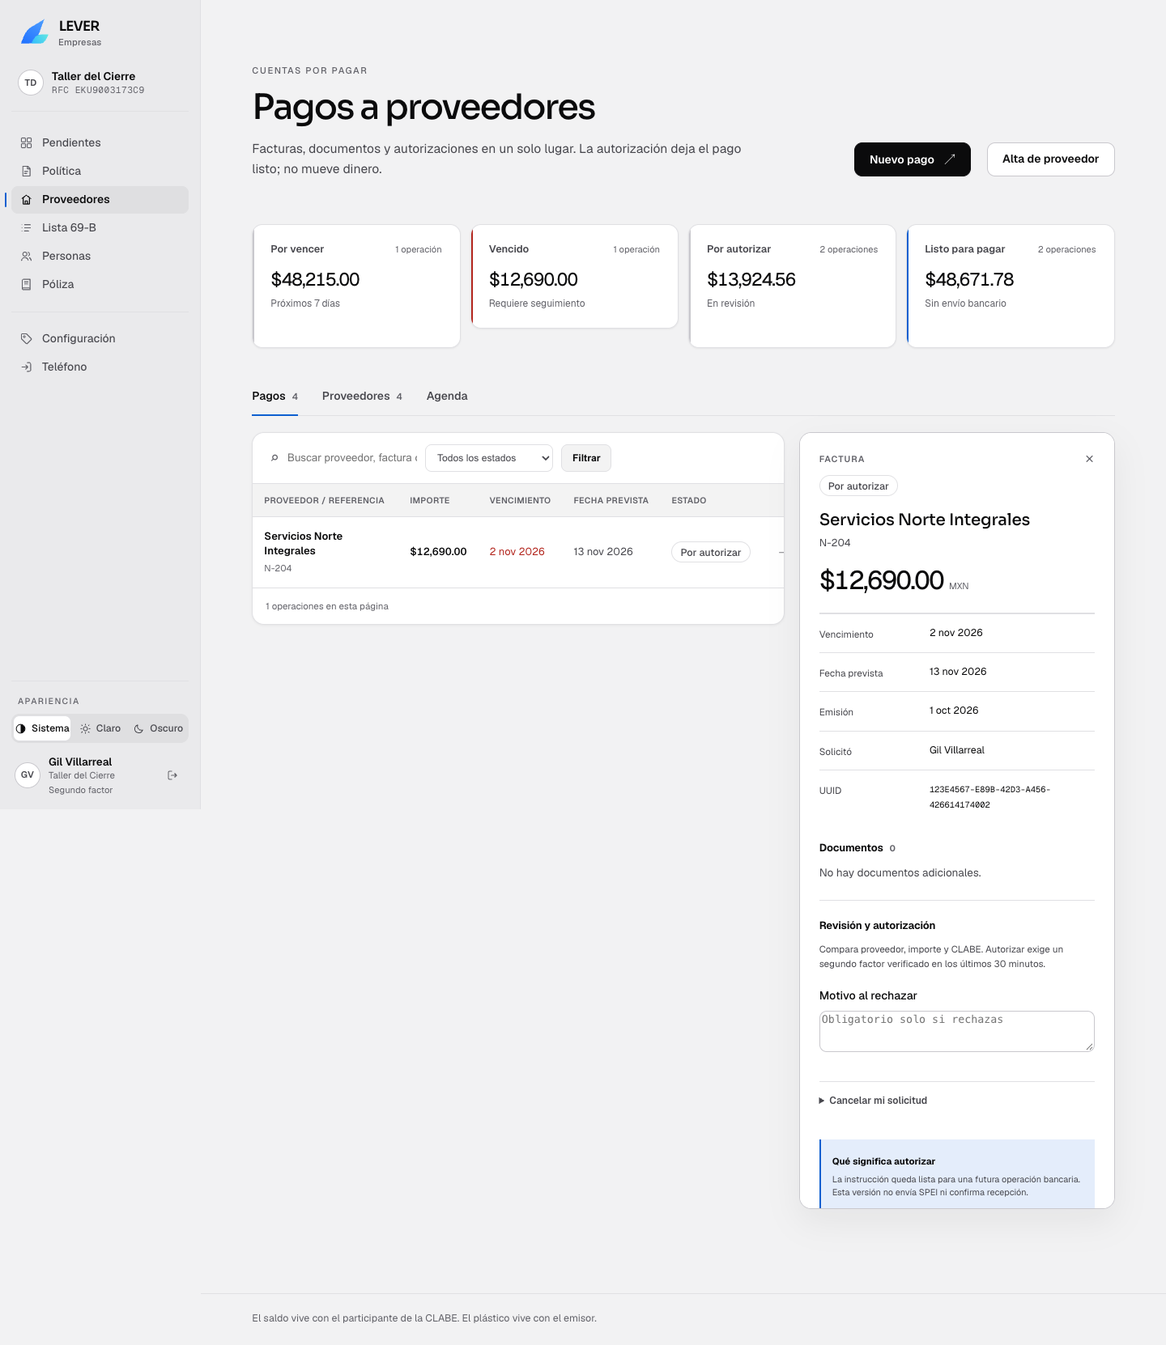
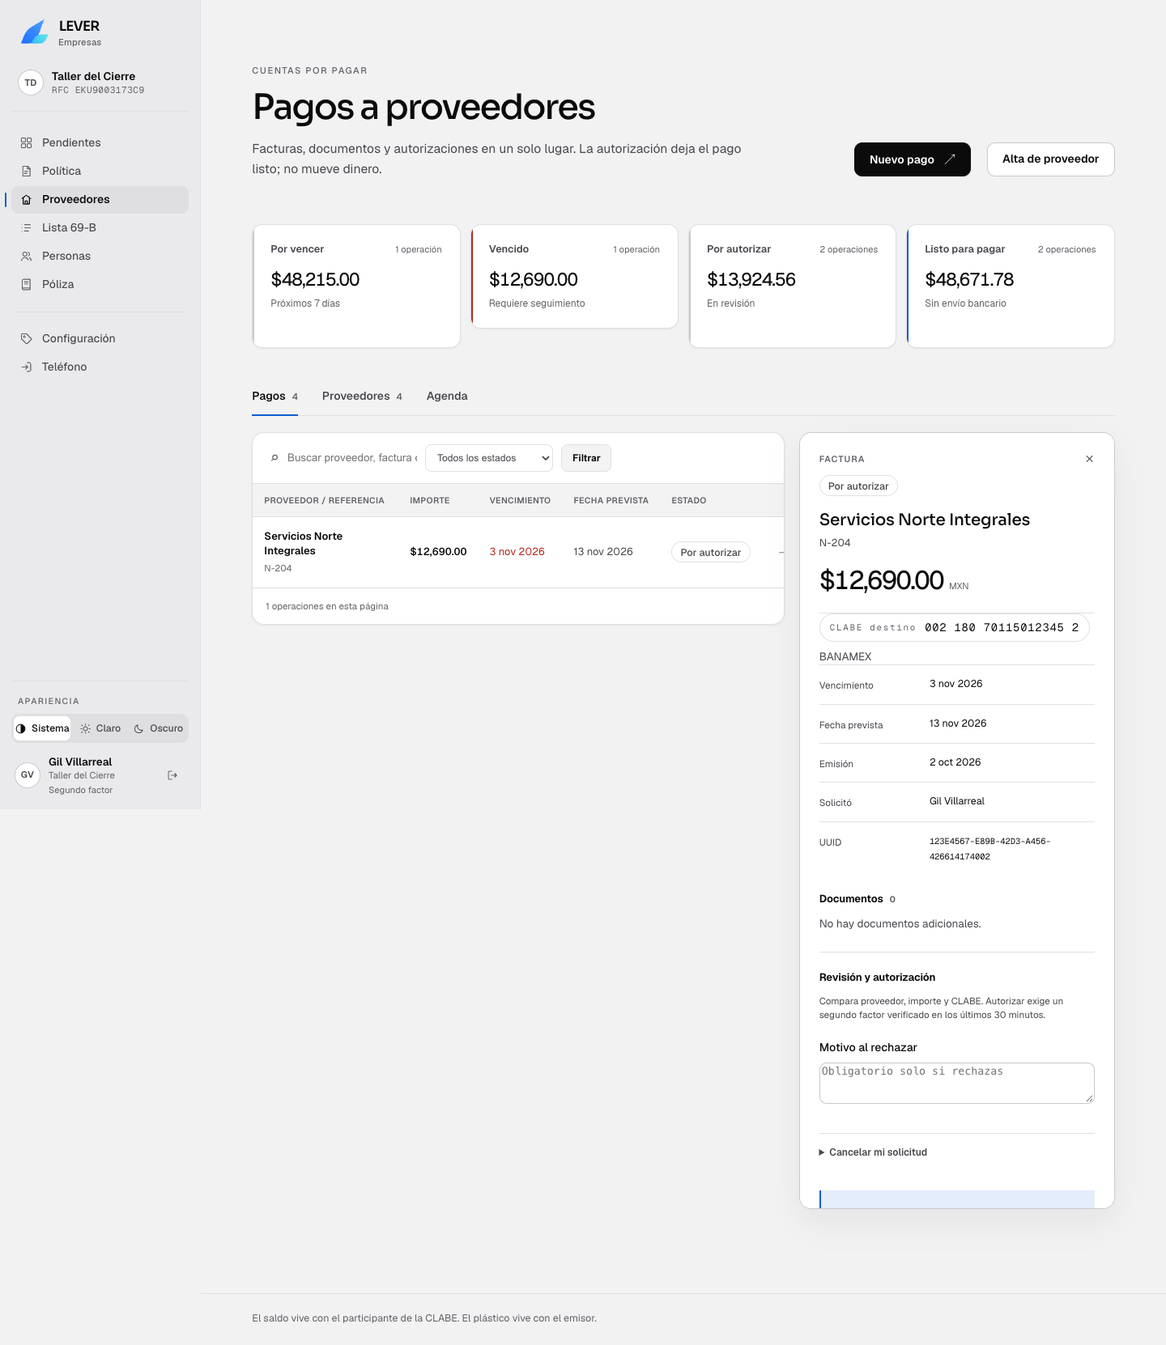
fix: blinda autorizacion y reintentos de pagos

Changed region(s): [[0.6875, 0.6137, 0.9375, 0.8899], [0.7812, 0.4603, 0.9062, 0.6444], [0.6875, 0.4603, 0.75, 0.583]]

diff --git a/tests/proveedores/pagos-proveedores.test.ts b/tests/proveedores/pagos-proveedores.test.ts
@@ -49,6 +49,7 @@ test("cuentas por pagar: dos personas, duplicados, corrección y CLABE cambiada"
     const sesion = { superficie: "cliente" as const, segundoFactor: { metodo: "totp" as const, en: new Date(AHORA) } };
     try {
       const entradaCfdi = {
+        clientRequestId: "aaaaaaaa-aaaa-4aaa-8aaa-aaaaaaaaaaa1",
         supplierId: PROVEEDOR, origen: "cfdi", xml: { nombre: "factura.xml", bytes: cfdiDePrueba() },
         pdf: { nombre: "factura.pdf", bytes: PDF }, venceEl: "2026-11-30", programadaEl: "2026-11-06",
       };
@@ -61,17 +62,28 @@ test("cuentas por pagar: dos personas, duplicados, corrección y CLABE cambiada"
       assert.equal(estado(url, creado.requestId), "listo_para_pagar");
 
       await assert.rejects(
-        () => crearPagoProveedor(luis, entradaCfdi, deps),
+        () => crearPagoProveedor(luis, { ...entradaCfdi, clientRequestId: "aaaaaaaa-aaaa-4aaa-8aaa-aaaaaaaaaaa2" }, deps),
         (error: unknown) => error instanceof ErrorDeDominio && error.codigo === "cfdi_duplicado",
       );
       assert.equal(borrados.length, 0, "el duplicado se detecta antes de subir archivos y no deja huérfanos");
 
-      const excepcion = await crearPagoProveedor(luis, {
+      const entradaExcepcion = {
+        clientRequestId: "aaaaaaaa-aaaa-4aaa-8aaa-aaaaaaaaaaa3",
         supplierId: PROVEEDOR, origen: "excepcion", pdf: { nombre: "soporte.pdf", bytes: PDF },
         monto: "1,250.50", referencia: "Servicio extraordinario", emitidaEl: "2026-11-01",
         venceEl: "2026-11-30", programadaEl: "2026-11-07", motivoExcepcion: "Trabajo urgente autorizado por dirección",
-      }, deps);
+      };
+      const excepcion = await crearPagoProveedor(luis, entradaExcepcion, deps);
+      const reintento = await crearPagoProveedor(luis, entradaExcepcion, deps);
+      assert.deepEqual(reintento, { requestId: excepcion.requestId, payableId: excepcion.payableId, existente: true });
       await resolverPagoProveedor(rosa, sesion, { requestId: excepcion.requestId, decision: "rechazar", motivo: "Falta desglose del trabajo" }, deps);
+      await assert.rejects(
+        () => editarYReenviarPago(rosa, excepcion.requestId, {
+          origen: "excepcion", monto: "9,999.00", referencia: "Servicio extraordinario", emitidaEl: "2026-11-01",
+          venceEl: "2026-11-30", programadaEl: "2026-11-08", motivoExcepcion: "Cambio propuesto por otra persona",
+        }, deps),
+        (error: unknown) => error instanceof ErrorDeDominio && error.codigo === "pago_no_autorizable",
+      );
       await editarYReenviarPago(luis, excepcion.requestId, {
         origen: "excepcion", monto: "2,000.00", referencia: "Servicio extraordinario", emitidaEl: "2026-11-01",
         venceEl: "2026-11-30", programadaEl: "2026-11-08", motivoExcepcion: "Trabajo urgente con desglose anexado por dirección",
@@ -79,9 +91,9 @@ test("cuentas por pagar: dos personas, duplicados, corrección y CLABE cambiada"
       assert.equal(estado(url, excepcion.requestId), "por_autorizar");
 
       ejecutar(url, `begin;
-        update supplier_clabes set vigente_hasta = timestamptz '2026-11-05 12:00:00+00' where id = '${CLABE_ID}';
+        update supplier_clabes set vigente_hasta = clock_timestamp() where id = '${CLABE_ID}';
         insert into supplier_clabes (id, company_id, supplier_id, clabe, digito_valido, vigente_desde)
-          values ('${CLABE_NUEVA_ID}', '${EMPRESA}', '${PROVEEDOR}', '${CLABE_NUEVA}', true, timestamptz '2026-11-05 12:00:00+00');
+          values ('${CLABE_NUEVA_ID}', '${EMPRESA}', '${PROVEEDOR}', '${CLABE_NUEVA}', true, clock_timestamp());
         insert into audit_log (operator_id, company_id, actor_tipo, actor_id, superficie, accion, entidad, identificador)
           values ('${operadorId}', '${EMPRESA}', 'miembro', '${LUIS}', 'cliente', 'clabe_proveedor', 'supplier_clabes', '${CLABE_NUEVA_ID}');
         commit;`);

diff --git a/src/components/proveedores/mesa.tsx b/src/components/proveedores/mesa.tsx
@@ -178,6 +178,7 @@ function DetallePago({ pago, lectura, empresaId, personaId, cerrar, puedeSolicit
   return <aside className="detalle-proveedor" aria-label="Detalle del pago">
     <Cerrar href={enEmpresa(empresaId, cerrar)} />
     <div className="detalle-cabeza"><p className="detalle-kicker">{pago.origen === "cfdi" ? "Factura" : "Excepción documentada"}</p><Insignia tono={tonoEstado(pago.estado)}>{ETIQUETA_ESTADO[pago.estado]}</Insignia><h2>{pago.proveedor}</h2><p>{pago.referencia}</p><strong className="detalle-monto">{formatoPesos(pago.totalCentavos)}</strong><span>MXN</span></div>
+    <div className="detalle-instruccion"><EtiquetaMono nombre="CLABE destino">{clabeVisible(pago.clabe)}</EtiquetaMono><p className="pista">{institucionTradicional(pago.clabe.slice(0, 3)) ?? FRASE_INSTITUCION_PENDIENTE}</p></div>
     <Renglones>
       <Renglon etiqueta="Vencimiento">{fechaLegible(pago.venceEl)}</Renglon><Renglon etiqueta="Fecha prevista">{fechaLegible(pago.programadaEl)}</Renglon>
       <Renglon etiqueta="Emisión">{fechaLegible(pago.emitidaEl)}</Renglon><Renglon etiqueta="Solicitó">{pago.solicitante}</Renglon>
@@ -186,7 +187,7 @@ function DetallePago({ pago, lectura, empresaId, personaId, cerrar, puedeSolicit
       {pago.motivoResolucion ? <Renglon etiqueta="Motivo de resolución">{pago.motivoResolucion}</Renglon> : null}
     </Renglones>
     <Documentos documentos={documentos} empresaId={empresaId} />
-    {pago.estado === "rechazado" && puedeSolicitar ? <Link className="boton boton-completo" href={enEmpresa(empresaId, `/consola/proveedores/nuevo?pago=${pago.id}`)}>Corregir y volver a solicitar</Link> : null}
+    {pago.estado === "rechazado" && puedeSolicitar && pago.solicitadoPor === personaId ? <Link className="boton boton-completo" href={enEmpresa(empresaId, `/consola/proveedores/nuevo?pago=${pago.id}`)}>Corregir y volver a solicitar</Link> : null}
     {autoriza || cancela ? <DecisionPago requestId={pago.id} puedeAutorizar={autoriza} puedeCancelar={cancela} /> : null}
     <div className="detalle-nota"><strong>Qué significa autorizar</strong><p>La instrucción queda lista para una futura operación bancaria. Esta versión no envía SPEI ni confirma recepción.</p></div>
   </aside>;
@@ -206,7 +207,7 @@ function DetalleProveedor({ proveedor, lectura, historial, empresaId, cerrar, pu
     </Renglones>
     <Documentos documentos={[{ id: proveedor.constanciaId, nombre: proveedor.constancia, tipo: "constancia", supplierId: proveedor.id, payableId: null, vigenteHasta: null }, ...documentos]} empresaId={empresaId} />
     {puedeAdministrar ? <FormularioContrato supplierId={proveedor.id} /> : null}
-    {grupo?.vigente && puedeAdministrar ? <div className="detalle-clabe"><h3>Cambiar CLABE</h3><p className="pista">La cuenta anterior se conserva. Este cambio exige segundo factor reciente.</p><FormularioCambio supplierId={proveedor.id} /></div> : null}
+    {grupo?.vigente && historial.puedeCambiar ? <div className="detalle-clabe"><h3>Cambiar CLABE</h3><p className="pista">La cuenta anterior se conserva. Este cambio exige segundo factor reciente.</p><FormularioCambio supplierId={proveedor.id} /></div> : null}
     {grupo && grupo.anteriores.length > 0 ? <div className="historial-compacto"><h3>CLABE anteriores</h3>{grupo.anteriores.map((linea) => <p key={linea.id}><span>{linea.visible}</span><small>{linea.desde} — {linea.hasta}</small></p>)}</div> : null}
   </aside>;
 }

diff --git a/src/server/pagos-proveedores/servicio.ts b/src/server/pagos-proveedores/servicio.ts
@@ -23,6 +23,7 @@ export type ArchivoPago = { nombre: string; bytes: Uint8Array } | null;
 export type EntradaPago = {
   supplierId: unknown;
   origen: unknown;
+  clientRequestId?: unknown;
   xml?: ArchivoPago;
   pdf?: ArchivoPago;
   monto?: unknown;
@@ -58,8 +59,10 @@ export async function crearPagoProveedor(
   ctx: ContextoDeTenant | null | undefined,
   entrada: EntradaPago,
   deps?: DependenciasPagos,
-): Promise<{ requestId: string; payableId: string }> {
+): Promise<{ requestId: string; payableId: string; existente: boolean }> {
   const conEmpresa = exigir(ctx, "cliente.pago.solicitar");
+  if (!uuidPago(entrada.clientRequestId)) throw new ErrorDeDominio("idempotencia_invalida");
+  const clientRequestId = entrada.clientRequestId;
   const listo = resolver(deps);
   const ahora = listo.ahora();
   const hoy = fechaEnMexico(ahora);
@@ -67,6 +70,8 @@ export async function crearPagoProveedor(
   const claves: string[] = [];
   try {
     return await listo.repositorio.conEmpresa(conEmpresa, async (tx) => {
+      const existente = await tx.solicitudPorClave(clientRequestId);
+      if (existente) return { ...existente, existente: true };
       const proveedor = await exigirProveedor(tx, preparado.supplierId, conEmpresa, preparado.cfdi);
       const payableId = listo.id();
       const requestId = listo.id();
@@ -101,7 +106,7 @@ export async function crearPagoProveedor(
         });
       }
       await tx.insertarSolicitud({
-        id: requestId, payableId, supplierClabeId: proveedor.clabeId, clabe: proveedor.clabe,
+        id: requestId, payableId, clientRequestId, supplierClabeId: proveedor.clabeId, clabe: proveedor.clabe,
         totalCentavos: cargo.totalCentavos, programadaEl: cargo.programadaEl,
         solicitadoPor: conEmpresa.persona.id, solicitadoEn: ahora,
       });
@@ -109,10 +114,17 @@ export async function crearPagoProveedor(
         accion: "solicitar_pago_proveedor", identificador: requestId,
         cambio: { total_centavos: cargo.totalCentavos },
       });
-      return { requestId, payableId };
+      return { requestId, payableId, existente: false };
     });
   } catch (error) {
     await limpiarArchivos(listo.almacen, claves);
+    if (error instanceof ErrorDeDominio && error.codigo === "idempotencia_pago_duplicada") {
+      return listo.repositorio.conEmpresa(conEmpresa, async (tx) => {
+        const existente = await tx.solicitudPorClave(clientRequestId);
+        if (!existente) throw error;
+        return { ...existente, existente: true };
+      });
+    }
     throw error;
   }
 }
@@ -130,7 +142,9 @@ export async function editarYReenviarPago(
   const hoy = fechaEnMexico(ahora);
   await listo.repositorio.conEmpresa(conEmpresa, async (tx) => {
     const solicitud = await tx.solicitud(requestId);
-    if (!solicitud || solicitud.estado !== "rechazado") throw new ErrorDeDominio("pago_no_autorizable");
+    if (!solicitud || solicitud.estado !== "rechazado" || solicitud.solicitadoPor !== conEmpresa.persona.id) {
+      throw new ErrorDeDominio("pago_no_autorizable");
+    }
     const cargo = await tx.cargo(solicitud.payableId);
     if (!cargo) throw new ErrorDeDominio("pago_no_autorizable");
     const preparado = prepararPago({ ...entrada, supplierId: cargo.supplierId, origen: cargo.origen }, hoy, cargo);

diff --git a/src/server/pagos-proveedores/repositorio.ts b/src/server/pagos-proveedores/repositorio.ts
@@ -33,7 +33,7 @@ export function repositorioPg(): RepositorioPagos {
               to_char(p.emitida_el, 'YYYY-MM-DD') as emitida_el,
               to_char(p.vence_el, 'YYYY-MM-DD') as vence_el,
               to_char(p.programada_el, 'YYYY-MM-DD') as programada_el,
-              r.estado, r.solicitado_por, u.nombre as solicitante, r.resuelto_por,
+              r.estado, r.clabe, r.solicitado_por, u.nombre as solicitante, r.resuelto_por,
               r.motivo_resolucion, p.motivo_excepcion, r.version
             from supplier_payment_requests r
             join supplier_payables p on p.company_id = r.company_id and p.id = r.payable_id
@@ -161,11 +161,18 @@ function contexto(consulta: Consulta, companyId: string): ContextoPagos {
     async insertarSolicitud(solicitud) {
       await consulta.query(`insert into supplier_payment_requests (
         id, company_id, payable_id, supplier_clabe_id, clabe, total_centavos, programada_el,
-        solicitado_por, solicitado_en, creado_en
-      ) values ($1,$2,$3,$4,$5,$6,$7,$8,$9,$9)`, [
+        solicitado_por, solicitado_en, client_request_id, creado_en
+      ) values ($1,$2,$3,$4,$5,$6,$7,$8,$9,$10,$9)`, [
         solicitud.id, companyId, solicitud.payableId, solicitud.supplierClabeId, solicitud.clabe,
-        solicitud.totalCentavos, solicitud.programadaEl, solicitud.solicitadoPor, solicitud.solicitadoEn,
+        solicitud.totalCentavos, solicitud.programadaEl, solicitud.solicitadoPor, solicitud.solicitadoEn, solicitud.clientRequestId,
       ]);
+    },
+    async solicitudPorClave(clientRequestId) {
+      const resultado = await consulta.query(`select id, payable_id from supplier_payment_requests
+        where company_id = $1 and client_request_id = $2`, [companyId, clientRequestId]);
+      const fila = resultado.rows[0] as Record<string, unknown> | undefined;
+      if (!fila) return null;
+      return { requestId: texto(fila.id), payableId: texto(fila.payable_id) };
     },
     async solicitud(id) {
       const resultado = await consulta.query(`select id, payable_id, estado, solicitado_por, version
@@ -226,7 +233,7 @@ function mapearPago(valor: unknown): PagoVista {
     id: texto(r.id), payableId: texto(r.payable_id), supplierId: texto(r.supplier_id),
     proveedor: texto(r.razon_social), rfc: texto(r.rfc), referencia: texto(r.referencia), origen,
     cfdiUuid: nullable(r.cfdi_uuid), totalCentavos: entero(r.total_centavos), emitidaEl: texto(r.emitida_el),
-    venceEl: texto(r.vence_el), programadaEl: texto(r.programada_el), estado,
+    venceEl: texto(r.vence_el), programadaEl: texto(r.programada_el), estado, clabe: texto(r.clabe),
     solicitadoPor: texto(r.solicitado_por), solicitante: texto(r.solicitante), resueltoPor: nullable(r.resuelto_por),
     motivoResolucion: nullable(r.motivo_resolucion), motivoExcepcion: nullable(r.motivo_excepcion), version: entero(r.version),
   };

diff --git a/src/app/consola/proveedores/acciones-pagos.ts b/src/app/consola/proveedores/acciones-pagos.ts
@@ -34,6 +34,7 @@ const MENSAJES: Record<string, string> = {
   motivo_invalido: "Explica el motivo con al menos 10 caracteres. Al rechazar o cancelar bastan 5.",
   archivo_ausente: "Carga todos los archivos requeridos antes de continuar.",
   archivo_no_disponible: "El archivo no es válido o no está disponible. Usa PDF legible de hasta 8 MB.",
+  archivos_peso_total: "El XML y el PDF juntos no pueden superar 8 MB.",
   cfdi_invalido: "El XML no es legible o contiene una estructura no permitida.",
   cfdi_codificacion: "El XML debe venir codificado en UTF-8.",
   cfdi_no_es_ingreso_mxn: "El CFDI debe ser versión 4.0, tipo ingreso y moneda MXN.",
@@ -43,6 +44,7 @@ const MENSAJES: Record<string, string> = {
   cfdi_duplicado: "Ese UUID ya está registrado en esta empresa.",
   reautenticacion_requerida: "La autorización exige un segundo factor reciente. Sal y vuelve a entrar para renovarlo.",
   cancelacion_no_permitida: "Solo quien solicitó el pago puede cancelarlo mientras sigue pendiente.",
+  idempotencia_invalida: "La referencia de esta solicitud no es válida. Recarga el formulario para generar una nueva.",
   base_no_disponible: "No se pudo completar la operación. Inténtalo de nuevo.",
   auditoria_no_disponible: "No se pudo dejar constancia. La operación no se guardó.",
 };
@@ -68,9 +70,10 @@ export async function enviarPago(
 ): Promise<EstadoPagoFormulario> {
   try {
     const [xml, pdf] = await Promise.all([leerArchivo(formData.get("xml")), leerArchivo(formData.get("pdf"))]);
+    if ((xml?.bytes.byteLength ?? 0) + (pdf?.bytes.byteLength ?? 0) > 8_000_000) throw new ErrorDeDominio("archivos_peso_total");
     const creado = await crearPagoProveedor(await contextoDeAccion(), entrada(formData, xml, pdf));
     revalidatePath("/consola/proveedores");
-    return { tipo: "listo", mensaje: "El pago quedó enviado a autorización. Todavía no se mueve dinero.", requestId: creado.requestId };
+    return { tipo: "listo", mensaje: creado.existente ? "La solicitud ya existía. No se duplicó el pago." : "El pago quedó enviado a autorización. Todavía no se mueve dinero.", requestId: creado.requestId };
   } catch (error) {
     return { tipo: "invalido", mensaje: traducir(error) };
   }
@@ -148,7 +151,8 @@ export async function subirContrato(
 
 function entrada(formData: FormData, xml: ArchivoPago, pdf: ArchivoPago) {
   return {
-    supplierId: texto(formData, "supplierId"), origen: texto(formData, "origen"), xml, pdf,
+    supplierId: texto(formData, "supplierId"), origen: texto(formData, "origen"),
+    clientRequestId: texto(formData, "clientRequestId"), xml, pdf,
     monto: texto(formData, "monto"), referencia: texto(formData, "referencia"),
     emitidaEl: texto(formData, "emitidaEl"), venceEl: texto(formData, "venceEl"),
     programadaEl: texto(formData, "programadaEl"), motivoExcepcion: texto(formData, "motivoExcepcion"),

diff --git a/tests/e2e/pagos-proveedores.spec.ts b/tests/e2e/pagos-proveedores.spec.ts
@@ -110,6 +110,7 @@ test("alta, factura, excepción, descarga y autorización con otra persona", asy
   await captura(page, "09-nuevo-pago-excepcion");
   await page.getByRole("button", { name: "Revisar y solicitar" }).click();
   await expect(page.getByText("El pago quedó enviado a autorización. Todavía no se mueve dinero.")).toBeVisible();
+  await expect(page.getByRole("button", { name: "Revisar y solicitar" })).toBeDisabled();
   const detalleExcepcion = await page.getByRole("link", { name: "Ver el detalle del pago" }).getAttribute("href");
   expect(detalleExcepcion).toBeTruthy();
 
@@ -120,14 +121,34 @@ test("alta, factura, excepción, descarga y autorización con otra persona", asy
   await captura(page, "10-autorizacion-segunda-persona");
 });
 
+test("limita archivos combinados y no ofrece cambiar CLABE a un liberador", async ({ page }) => {
+  await entrar(page, ROSA);
+  await page.goto(`${BASE}?vista=proveedores&proveedor=44444444-4444-4444-8444-444444444441`);
+  await expect(page.getByRole("complementary", { name: "Expediente del proveedor" })).toBeVisible();
+  await expect(page.getByText("Cambiar CLABE", { exact: true })).toHaveCount(0);
+
+  await entrar(page);
+  await page.goto(`${BASE}/nuevo-proveedor`);
+  await page.getByLabel("RFC", { exact: true }).fill("EEE050505EA5");
+  await page.getByLabel("Razón social", { exact: true }).fill("Archivos Grandes");
+  await page.getByLabel("CLABE", { exact: true }).fill("002180701150123452");
+  const grande = Buffer.concat([Buffer.from("%PDF-"), Buffer.alloc(4_500_000)]);
+  await page.locator("#constancia").setInputFiles({ name: "constancia-grande.pdf", mimeType: "application/pdf", buffer: grande });
+  await page.locator("#contrato").setInputFiles({ name: "contrato-grande.pdf", mimeType: "application/pdf", buffer: grande });
+  await page.getByRole("button", { name: "Dar de alta" }).click();
+  await expect(page.locator("#contrato-error")).toHaveText("La constancia y el contrato juntos no pueden superar 8 MB.");
+});
+
 test("rechazo, corrección y cancelación conservan el historial", async ({ page }) => {
   await entrar(page, ROSA);
   const pendiente = `${BASE}?pago=88888888-8888-4888-8888-888888888882`;
   await page.goto(pendiente);
+  await expect(page.getByText("CLABE destino", { exact: true })).toBeVisible();
   await page.getByLabel("Motivo al rechazar").fill("La fecha no coincide con el contrato");
   await page.getByRole("button", { name: "Rechazar", exact: true }).click();
   await expect(page.locator(".detalle-cabeza").getByText("Rechazado", { exact: true })).toBeVisible();
   await expect(page.getByText("La fecha no coincide con el contrato", { exact: true })).toBeVisible();
+  await expect(page.getByRole("link", { name: "Corregir y volver a solicitar" })).toHaveCount(0);
 
   await entrar(page);
   await page.goto(pendiente);

diff --git a/src/components/proveedores/formulario-pago.tsx b/src/components/proveedores/formulario-pago.tsx
@@ -28,6 +28,7 @@ export function FormularioPago({
   hoy: string;
   edicion?: PagoVista;
 }) {
+  const [clientRequestId] = useState(() => crypto.randomUUID());
   const [estado, accion, pendiente] = useActionState(edicion ? reenviarPago : enviarPago, ESTADO_PAGO_INICIAL);
   const [lectura, inspeccionar, inspeccionando] = useActionState(prellenarCfdi, { tipo: "inicial" } as const);
   const [origen, setOrigen] = useState<OrigenPago>(edicion?.origen ?? "cfdi");
@@ -53,6 +54,7 @@ export function FormularioPago({
 
   return (
     <form className="pago-formulario" action={accion}>
+      <input type="hidden" name="clientRequestId" value={clientRequestId} />
       {edicion ? <input type="hidden" name="requestId" value={edicion.id} /> : null}
       <input type="hidden" name="origen" value={origen} />
       {edicion ? <input type="hidden" name="supplierId" value={supplierId} /> : null}
@@ -142,7 +144,7 @@ export function FormularioPago({
 
       <div className="formulario-final">
         <div><strong>{edicion ? "Volver a solicitar" : "Enviar a autorización"}</strong><p>Otra persona deberá revisar proveedor, importe y CLABE. No se enviará dinero.</p></div>
-        <button className="boton" type="submit" disabled={pendiente || inspeccionando || (origen === "cfdi" && !edicion && !cfdi)}>
+        <button className="boton" type="submit" disabled={pendiente || inspeccionando || estado.tipo === "listo" || (origen === "cfdi" && !edicion && !cfdi)}>
           {pendiente ? "Guardando…" : edicion ? "Guardar y solicitar" : "Revisar y solicitar"}
         </button>
       </div>

diff --git a/src/server/pagos-proveedores/tipos.ts b/src/server/pagos-proveedores/tipos.ts
@@ -70,6 +70,7 @@ export type CargoNuevo = {
 export type SolicitudNueva = {
   id: string;
   payableId: string;
+  clientRequestId: string;
   supplierClabeId: string;
   clabe: string;
   totalCentavos: number;
@@ -96,6 +97,7 @@ export type ContextoPagos = {
   cargo(payableId: string): Promise<CargoNuevo | null>;
   vincularDocumentoCargo(documentoId: string, payableId: string, tipo: string, creadoEn: Date): Promise<void>;
   insertarSolicitud(solicitud: SolicitudNueva): Promise<void>;
+  solicitudPorClave(clientRequestId: string): Promise<{ requestId: string; payableId: string } | null>;
   solicitud(id: string): Promise<SolicitudActual | null>;
   actualizarCargo(cargo: CargoNuevo & { actualizadoEn: Date }): Promise<void>;
   actualizarSolicitud(entrada: {

diff --git a/src/nucleo/db.ts b/src/nucleo/db.ts
@@ -173,6 +173,7 @@ export function traducirErrorDeBase(error: unknown): Error {
     if (marca.includes("policy_categories")) return new ErrorDeDominio("categoria_duplicada");
     if (marca.includes("supplier_clabes_una_vigente")) return new ErrorDeDominio("clabe_ya_vigente");
     if (marca.includes("supplier_payables_cfdi")) return new ErrorDeDominio("cfdi_duplicado");
+    if (marca.includes("supplier_payment_requests_idempotencia")) return new ErrorDeDominio("idempotencia_pago_duplicada");
     if (marca.includes("lista_69b")) return new ErrorDeDominio("listado_irreconocible");
     if (marca.includes("polic") || marca.includes("drawer") || marca.includes("posting")) {
       return new ErrorDeDominio("politica_invalida");

diff --git a/src/app/consola/proveedores/acciones.ts b/src/app/consola/proveedores/acciones.ts
@@ -29,6 +29,9 @@ export async function enviarProveedor(
     clabe: formData.get("clabe"),
     archivo: archivo.meta,
   });
+  if ((archivo.bytes?.byteLength ?? 0) + (contrato.bytes?.byteLength ?? 0) > 8_000_000) {
+    return { tipo: "invalido", errores: [{ campo: "contrato", mensaje: "La constancia y el contrato juntos no pueden superar 8 MB." }] };
+  }
   if (contrato.meta && !contrato.bytes) {
     return { tipo: "invalido", errores: [{ campo: "contrato", mensaje: "El contrato debe ser un PDF de hasta 8 MB." }] };
   }

diff --git a/next.config.ts b/next.config.ts
@@ -17,7 +17,7 @@ const nextConfig: NextConfig = {
   serverExternalPackages: ["pg", "bcryptjs"],
   experimental: {
     serverActions: {
-      bodySizeLimit: "8mb",
+      bodySizeLimit: "20mb",
     },
   },
   agentRules: false,

diff --git a/src/dominio/pagos-vistas.ts b/src/dominio/pagos-vistas.ts
@@ -31,6 +31,7 @@ export type PagoVista = {
   venceEl: string;
   programadaEl: string;
   estado: EstadoPago;
+  clabe: string;
   solicitadoPor: string;
   solicitante: string;
   resueltoPor: string | null;
